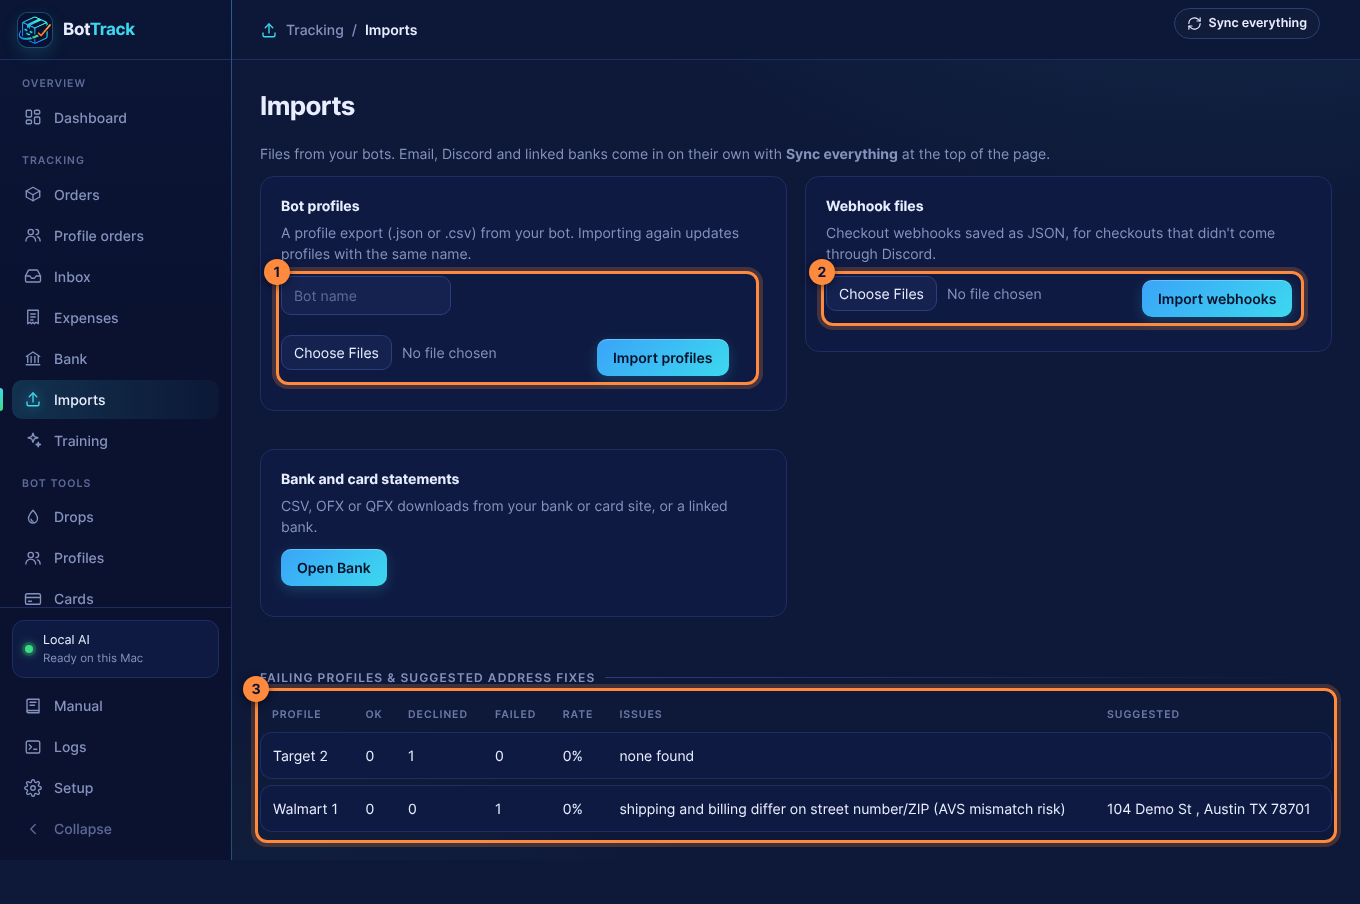
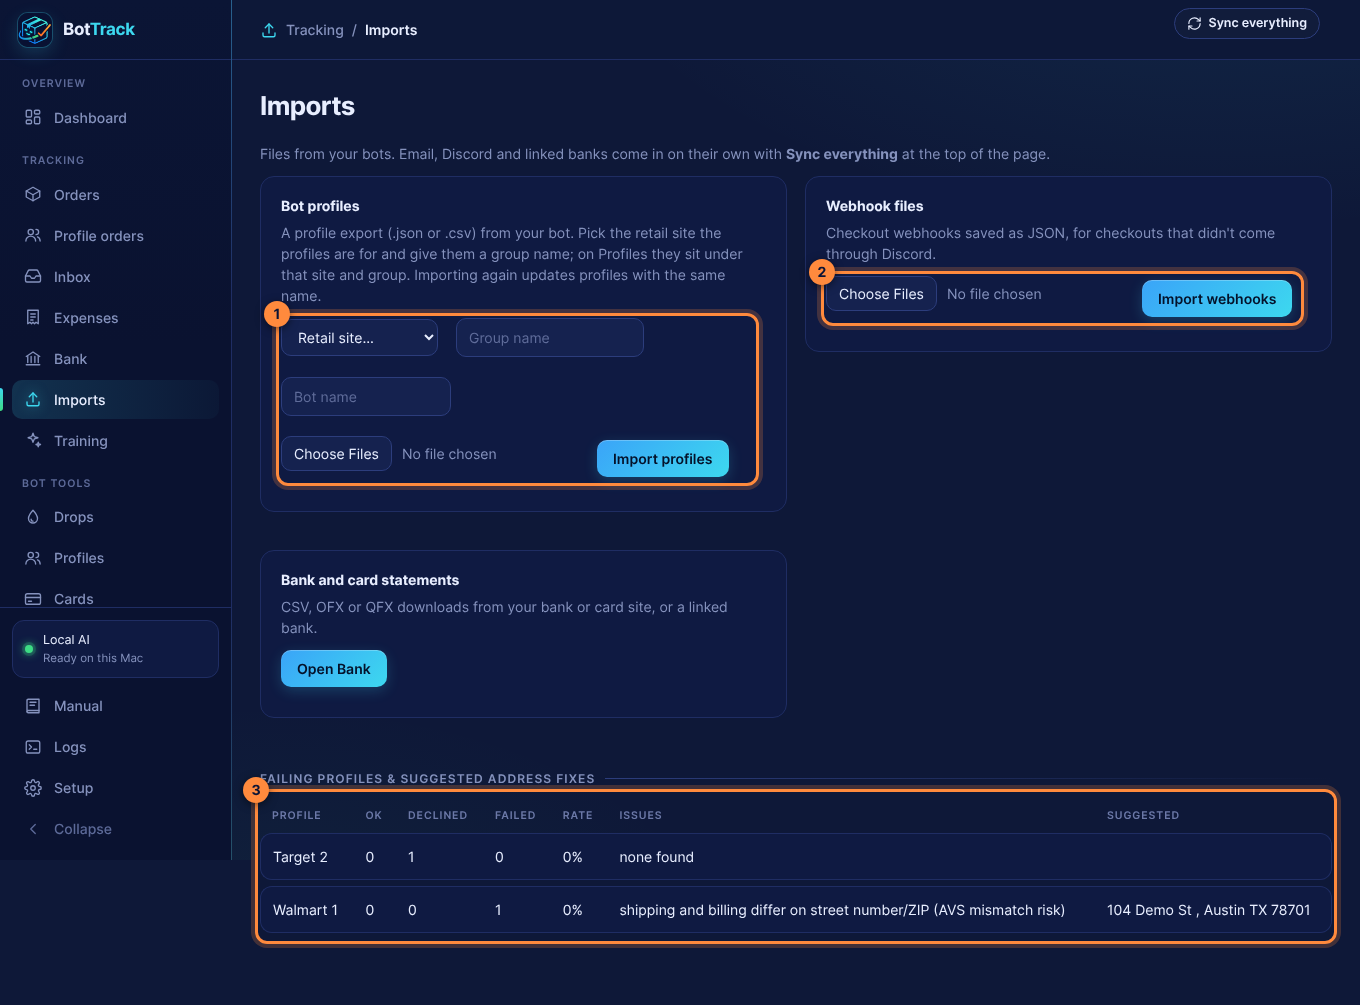
Profiles by retail site: pick site + group on import, Clear all profiles (#67)
Imports asks for the retail site (Amazon, Best Buy, Pokemon Center, Target,
Walmart, Topps, Shopify, Menards, Crunchyroll, Bandai, Riot, or Other) and a
group name; Profiles lists them site > group in the left column. Re-importing
updates a profile in place, keeping its linked card, site and group (it used
to replace the row). Orders are matched to the new profiles right after an
import. Clear all profiles asks to confirm with the count and keeps cards,
orders and hand-picked order matches.

Claude-Session: https://claude.ai/code/session_01LDuJdZzN9U43yUj6bC9CY3

diff --git a/jigstream/templates/profiles.html b/jigstream/templates/profiles.html
@@ -11,7 +11,9 @@
 .pcard .pick{position:absolute;left:18px;top:21px}
 .pcard h3{margin:0 0 4px;font-size:16px;color:var(--text);text-transform:none;letter-spacing:-.01em;font-weight:600;display:flex;align-items:center;gap:8px;padding-right:76px}
 .pcard .tag{font-size:11px;font-weight:600;background:var(--accent-soft);color:var(--accent);border-radius:6px;padding:2px 8px}
-.pcard .tag.grp{background:var(--green-soft);color:var(--green)}
+.pcard .tag.grp{background:var(--green-soft);color:var(--green)}.pcard .tag.site{background:rgba(255,138,61,.14);color:var(--orange)}
+.gside details.site summary{list-style:none;cursor:pointer}.gside details.site summary::-webkit-details-marker{display:none}
+.gside a.sub{padding-left:24px;font-size:12.5px}
 .pcard .who{color:var(--muted);font-size:13px;margin-bottom:10px;word-break:break-all}
 .pcard .lbl{color:var(--muted);font-size:11px;font-weight:600;letter-spacing:.06em;margin-top:10px}
 .pcard .same{color:var(--green)}.pcard .icons{position:absolute;top:12px;right:12px;display:flex;gap:2px}
@@ -41,11 +43,15 @@ textarea:focus{border-color:var(--accent);box-shadow:0 0 0 3px var(--accent-soft
 
 <div class="phead"><h2>Profiles <span class="muted" style="font-size:15px;font-weight:500">{{rows|length}}{% if group is not none %} in {{group or "no group"}}{% endif %}</span></h2>
 <button type="button" class="ghost" onclick="document.getElementById('exportdlg').showModal()">Export</button>
-<button type="button" onclick="openProfile()">+ Create profile</button></div>
+<button type="button" onclick="openProfile()">+ Create profile</button>
+{% if total %}<form method="post" action="/profiles/clear" style="margin:0" onsubmit="return confirm('Are you sure you want to clear all profiles? This deletes all {{total}} profiles and can\'t be undone. Your cards and orders are kept.')"><input type="hidden" name="confirm" value="{{total}}"><button class="danger">Clear all profiles</button></form>{% endif %}</div>
 
 <div class="playout">
 <aside class="gside">
-  <a href="/profiles" class="{{'on' if group is none}}">All profiles <span>{{total}}</span></a>
+  <a href="/profiles" class="{{'on' if group is none and site is none}}">All profiles <span>{{total}}</span></a>
+  {% if sites|length > 1 or (sites and "" not in sites) %}<div class="lbl">RETAIL SITES</div>
+  {% for s_name, gs in sites.items() %}<details class="site"{{" open" if site == s_name}}><summary><a href="/profiles?site={{s_name|urlencode}}" class="{{'on' if site == s_name and group is none}}">{{s_name or "No site"}} <span>{{gs|sum(attribute=1)}}</span></a></summary>
+  {% for g, n in gs %}<a class="sub {{'on' if site == s_name and group == g}}" href="/profiles?site={{s_name|urlencode}}&group={{g|urlencode}}">{{g or "No group"}} <span>{{n}}</span></a>{% endfor %}</details>{% endfor %}{% endif %}
   <div class="lbl">GROUPS</div>
   {% for g, n in groups %}<a href="/profiles?group={{g|urlencode}}" class="{{'on' if group == g}}">{{g}} <span>{{n}}</span></a>{% endfor %}
   {% if ungrouped %}<a href="/profiles?group=" class="{{'on' if group == ''}}"><i>No group</i> <span>{{ungrouped}}</span></a>{% endif %}
@@ -71,7 +77,7 @@ textarea:focus{border-color:var(--accent);box-shadow:0 0 0 3px var(--accent-soft
 </div>
 </form>
 
-{% if not rows %}<div class="panel muted">No profiles here yet. Create one, or import a bot's profile export from the Dashboard.</div>{% endif %}
+{% if not rows %}<div class="panel muted">No profiles here yet. Create one, or import a bot's profile export on <a href="/imports">Imports</a>.</div>{% endif %}
 <div class="pgrid">
 {% for p,issues,same in rows %}
 <div class="pcard{{' warn' if issues}}">
@@ -81,7 +87,7 @@ textarea:focus{border-color:var(--accent);box-shadow:0 0 0 3px var(--accent-soft
     <a class="edit" href="#" onclick="openProfile({{loop.index0}}); return false" title="Edit profile"><svg viewBox="0 0 24 24" fill="none" stroke="currentColor" stroke-width="2" stroke-linecap="round" stroke-linejoin="round"><path d="M12 20h9"/><path d="M16.5 3.5a2.1 2.1 0 0 1 3 3L7 19l-4 1 1-4z"/></svg></a>
     <form method="post" action="{{url_for('profile_delete', name=p.name)}}" onsubmit="return confirm('Delete {{p.name}}?')"><button class="del" title="Delete profile"><svg viewBox="0 0 24 24" fill="none" stroke="currentColor" stroke-width="2" stroke-linecap="round" stroke-linejoin="round"><path d="M3 6h18M8 6V4h8v2M19 6l-1 14H6L5 6M10 11v6M14 11v6"/></svg></button></form>
   </div>
-  <h3>{{p.name}}{% if p.group_name %} <span class="tag grp">{{p.group_name}}</span>{% endif %}{% if p.bot %} <span class="tag">{{p.bot}}</span>{% endif %}</h3>
+  <h3>{{p.name}}{% if p.site %} <span class="tag site">{{p.site}}</span>{% endif %}{% if p.group_name %} <span class="tag grp">{{p.group_name}}</span>{% endif %}{% if p.bot %} <span class="tag">{{p.bot}}</span>{% endif %}</h3>
   <div class="who">{{p.email or "no email"}}{% if p.phone %} · {{p.phone}}{% endif %}</div>
   <div class="lbl">BILLING</div>
   <div>{{p.bill_address1}}{% if p.bill_address2 %}, {{p.bill_address2}}{% endif %}</div>

diff --git a/jigstream/templates/imports.html b/jigstream/templates/imports.html
@@ -4,8 +4,12 @@
 <h2>Imports</h2>
 <p class="muted">Files from your bots. Email, Discord and linked banks come in on their own with <b>Sync everything</b> at the top of the page.</p>
 <div class="igrid">
-<div class="panel"><h4>Bot profiles</h4><p class="muted">A profile export (.json or .csv) from your bot. Importing again updates profiles with the same name.</p>
-<form method="post" action="/upload/profiles" enctype="multipart/form-data"><input name="bot" list="botnames" placeholder="Bot name" size="12" required><datalist id="botnames"><option>Valor</option><option>Stellar</option><option>Hayha</option><option>Polar</option><option>AYCD</option><option>Cybersole</option><option>Wrath</option></datalist><input type="file" name="files" multiple required><button>Import profiles</button></form></div>
+<div class="panel"><h4>Bot profiles</h4><p class="muted">A profile export (.json or .csv) from your bot. Pick the retail site the profiles are for and give them a group name; on Profiles they sit under that site and group. Importing again updates profiles with the same name.</p>
+<form method="post" action="/upload/profiles" enctype="multipart/form-data">
+<select name="site" required onchange="this.form.site_other.hidden = this.value !== 'other'; this.form.site_other.required = this.value === 'other'"><option value="">Retail site...</option>{% for s in retail_sites %}<option>{{s}}</option>{% endfor %}<option value="other">Other...</option></select>
+<input name="site_other" placeholder="Site name" size="14" hidden>
+<input name="group" placeholder="Group name" size="14" required>
+<input name="bot" list="botnames" placeholder="Bot name" size="12" required><datalist id="botnames"><option>Valor</option><option>Stellar</option><option>Hayha</option><option>Polar</option><option>AYCD</option><option>Cybersole</option><option>Wrath</option></datalist><input type="file" name="files" multiple required><button>Import profiles</button></form></div>
 <div class="panel"><h4>Webhook files</h4><p class="muted">Checkout webhooks saved as JSON, for checkouts that didn't come through Discord.</p>
 <form method="post" action="/upload/webhooks" enctype="multipart/form-data"><input type="file" name="files" multiple required><button>Import webhooks</button></form></div>
 <div class="panel"><h4>Bank and card statements</h4><p class="muted">CSV, OFX or QFX downloads from your bank or card site, or a linked bank.</p>

diff --git a/jigstream/templates/manual.html b/jigstream/templates/manual.html
@@ -134,7 +134,7 @@ of the page. On a narrow window the sidebar hides behind the <b>☰</b> menu but
 <div class="where">Sidebar → Tracking → <b>Imports</b></div>
 <p>Files from your bots. Email, Discord and linked banks come in by themselves, or right away with <span class="ui">Sync everything</span> at the top of every page.</p>
 {{ fig("imports", "The Imports page.", [
-  "Import profiles: type the bot's name, pick its profile export (.json or .csv), press Import profiles.",
+  "Import profiles: pick the retail site they're for (or Other... to type one), give them a group name, type the bot's name, pick its profile export (.json or .csv), press Import profiles. On Profiles they're listed under that site, then group.",
   "Import webhooks: pick the webhook files your bots exported (Valor, Stellar, Hayha, Polar). Not needed if Discord is connected.",
   "Failing profiles: each profile's success rate, the problems found in its address, and a cleaned-up address to try instead."]) }}
 <div class="tip">Under <i>Issues</i>, look for things like a ZIP code that's too short or billing and shipping that don't match. Those are the usual reasons a card is declined.</div>
@@ -397,6 +397,7 @@ one turns it <b>Cancelled</b>. Each drop date on By date also shows what the car
 <h2>Profiles</h2>
 <div class="where">Sidebar → Bot tools → <b>Profiles</b></div>
 <p>Your bot profiles as cards you can sort into groups, edit, copy, fill in bulk, and export back into any bot's file layout.</p>
+<p>Profiles imported for a retail site are listed under <b>Retail sites</b> in the left column: click a site to see its profiles, or open it to pick one of its groups. <span class="ui">Clear all profiles</span> at the top deletes every profile after asking if you're sure (your cards and orders are kept), so you can import them again by site.</p>
 {{ fig("profiles", "The Profiles page.", [
   "Groups: click a group to see only its profiles. Type a name and press Add to make a new one. With a group open you can rename or delete it (its profiles are kept).",
   "+ Create profile: opens the profile window.",

diff --git a/jigstream/app.py b/jigstream/app.py
@@ -164,7 +164,7 @@ def create_app(db_path=None):
     @app.get("/imports")
     def imports_page():
         report, unmatched = analysis.failure_report(con())
-        return render_template("imports.html", report=report, unmatched=unmatched)
+        return render_template("imports.html", report=report, unmatched=unmatched, retail_sites=profiles.RETAIL_SITES)
 
     @app.get("/checkouts")
     def checkouts():
@@ -342,18 +342,27 @@ def create_app(db_path=None):
     @app.get("/profiles")
     def profile_list():
         c = con()
-        group = request.args.get("group")
+        group, site = request.args.get("group"), request.args.get("site")
+        where, args = [], []
+        if site is not None:
+            where.append("COALESCE(p.site, '') = ?"), args.append(site)
+        if group is not None:
+            where.append("COALESCE(p.group_name, '') = ?"), args.append(group)
         q = ("SELECT p.*, c.brand AS linked_brand, c.last4 AS linked_last4, c.exp AS linked_exp, c.name AS linked_name"
              " FROM profiles p LEFT JOIN cards c ON c.id = p.card_id"
-             + (" WHERE COALESCE(p.group_name, '') = ?" if group is not None else "") + " ORDER BY p.name")
-        rows = [(p, analysis.profile_issues(p), export.same_address(p))
-                for p in c.execute(q, (group,) if group is not None else ())]
+             + (" WHERE " + " AND ".join(where) if where else "") + " ORDER BY p.name")
+        rows = [(p, analysis.profile_issues(p), export.same_address(p)) for p in c.execute(q, args)]
+        sites = {}
+        for s_, g_, n_ in c.execute("SELECT COALESCE(site, ''), COALESCE(group_name, ''), COUNT(*) FROM profiles"
+                                    " GROUP BY 1, 2 ORDER BY COALESCE(site, '') = '', lower(COALESCE(site, '')),"
+                                    " lower(COALESCE(group_name, ''))"):
+            sites.setdefault(s_, []).append((g_, n_))
         groups, ungrouped = profilebook.groups(c)
         profilematch.match_orders(Store(c).db)
         order_counts = dict(c.execute("SELECT profile_name, COUNT(*) FROM tracked_orders WHERE profile_name IS NOT NULL"
                                       " GROUP BY profile_name").fetchall())
         return render_template("profiles.html", order_counts=order_counts, email_groups=emailbook.groups(c)[0], rows=rows, bots=sorted(export.templates(c)), groups=groups,
-                               ungrouped=ungrouped, group=group, total=c.execute("SELECT COUNT(*) FROM profiles").fetchone()[0],
+                               ungrouped=ungrouped, group=group, site=site, sites=sites, total=c.execute("SELECT COUNT(*) FROM profiles").fetchone()[0],
                                fields=profilebook.DISTRIBUTE_FIELDS, addresses=profilebook.saved_addresses(c),
                                states=sorted(A.STATE_NAMES.items()), profiles_json=[dict(p) for p, _, _ in rows],
                                cards=wallet.cards(c))
@@ -407,6 +416,22 @@ def create_app(db_path=None):
                                               bool(request.form.get("billing")), bool(request.form.get("shipping")))
             flash(error or f"Updated {n} profile(s).")
         return _back_to_profiles()
+
+    @app.post("/profiles/clear")
+    def profiles_clear():
+        """Delete every profile (asked for with a confirmation on the page). Cards and orders are kept."""
+        c = con()
+        n = c.execute("SELECT COUNT(*) FROM profiles").fetchone()[0]
+        if request.form.get("confirm") != str(n):
+            flash("Nothing was deleted: the profile count changed. Try again.")
+            return _back_to_profiles()
+        c.execute("DELETE FROM profiles")
+        c.execute("UPDATE tracked_orders SET profile_name = NULL, profile_match = NULL, profile_candidates = NULL"
+                  " WHERE COALESCE(profile_manual, 0) = 0")  # hand picks come back when the profile is imported again
+        c.commit()
+        logger.info("cleared all %d profiles", n)
+        flash(f"Deleted all {n} profiles. Your cards and orders are kept; import profiles again on Imports.")
+        return redirect(url_for("profile_list"))
 
     @app.post("/profiles/groups")
     def profile_groups():
@@ -598,7 +623,10 @@ def create_app(db_path=None):
             if kind == "webhooks":
                 n = sum(parsers.ingest(c, f.read().decode("utf-8", "replace")) for f in request.files.getlist("files"))
             elif kind == "profiles":
-                n = profiles.ingest(c, text, request.form.get("bot", ""))
+                f = request.form
+                site = f.get("site_other", "").strip() if f.get("site") == "other" else f.get("site", "")
+                n = profiles.ingest(c, text, f.get("bot", ""), site, f.get("group", ""))
+                profilematch.match_orders(Store(c).db)  # tie existing orders to the new profiles now
             else:
                 return "unknown", 404
             flash(f"Imported {n} {kind} records")

diff --git a/jigstream/profiles.py b/jigstream/profiles.py
@@ -196,20 +196,29 @@ def parse_profiles(text, bot=""):
     return out
 
 
-def ingest(con, text, bot=""):
+# Retail sites offered when importing profiles; any other site can be typed in.
+RETAIL_SITES = ["Amazon", "Best Buy", "Pokemon Center", "Target", "Walmart", "Topps", "Shopify", "Menards",
+                "Crunchyroll", "Bandai", "Riot"]
+FIELDS = ["bot", "first_name", "last_name", "phone", "email", "ship_address1", "ship_address2", "ship_city", "ship_state",
+          "ship_zip", "ship_country", "bill_address1", "bill_address2", "bill_city", "bill_state", "bill_zip",
+          "bill_country", "card_last4", "raw", "card_brand", "card_exp", "fmt"]
+
+
+def ingest(con, text, bot="", site="", group=""):
+    """Import a bot's profile export. A profile already saved under the same name is updated in place, so its
+    linked card stays; the retail site and group are set when given."""
+    site, group = (site or "").strip(), (group or "").strip()
+    if group:
+        con.execute("INSERT OR IGNORE INTO profile_groups VALUES (?)", (group,))
+    extra = [("site", site)] * bool(site) + [("group_name", group)] * bool(group)
+    cols = ["name", *FIELDS, *(k for k, _ in extra)]
     n = 0
     for p in parse_profiles(text, bot):
         if not p["name"]:
             continue
-        con.execute(
-            """INSERT OR REPLACE INTO profiles (name, bot, first_name, last_name, phone, email,
-             ship_address1, ship_address2, ship_city, ship_state, ship_zip, ship_country,
-             bill_address1, bill_address2, bill_city, bill_state, bill_zip, bill_country,
-             card_last4, raw, card_brand, card_exp, fmt) VALUES
-            (:name,:bot,:first_name,:last_name,:phone,:email,
-             :ship_address1,:ship_address2,:ship_city,:ship_state,:ship_zip,:ship_country,
-             :bill_address1,:bill_address2,:bill_city,:bill_state,:bill_zip,:bill_country,
-             :card_last4,:raw,:card_brand,:card_exp,:fmt)""", p)
+        values = {**p, **dict(extra)}
+        con.execute(f"INSERT INTO profiles ({', '.join(cols)}) VALUES ({', '.join(':' + c for c in cols)})"
+                    f" ON CONFLICT(name) DO UPDATE SET {', '.join(f'{c} = excluded.{c}' for c in cols[1:])}", values)
         n += 1
     con.commit()
     return n

diff --git a/tests/test_core.py b/tests/test_core.py
@@ -114,3 +114,30 @@ def test_model_http_500_is_a_failed_email_not_an_engine_that_is_off(monkeypatch)
     except llm.LLMError as e:
         assert "runner has unexpectedly stopped" in str(e) and "Could not reach" not in str(e)
     assert len(calls) == 2  # one retry
+
+
+def test_profiles_import_under_a_retail_site_and_group_and_clear(tmp_path):
+    import io
+    path = str(tmp_path / "t.db")
+    c = db.connect(path)
+    c.execute("INSERT INTO cards (id, last4) VALUES (7, '4242')") if c.execute(
+        "SELECT name FROM sqlite_master WHERE name='cards'").fetchone() else None
+    profiles.ingest(c, json.dumps(PROFILES), "Valor", "Target", "Target Main")
+    c.execute("UPDATE profiles SET card_id = 7 WHERE name = 'prof1'")
+    profiles.ingest(c, json.dumps(PROFILES[:1]), "Valor")  # importing again keeps the site, group and card
+    p = dict(c.execute("SELECT site, group_name, card_id FROM profiles WHERE name = 'prof1'").fetchone())
+    assert p == {"site": "Target", "group_name": "Target Main", "card_id": 7}
+
+    client = create_app(path).test_client()
+    data = {"site": "other", "site_other": "Riot Store", "group": "Riot 1", "bot": "Valor",
+            "files": (io.BytesIO(json.dumps([{"name": "prof3", "shipping": {"address1": "5 Elm St", "zip": "78701"}}]).encode()), "p.json")}
+    client.post("/upload/profiles", data=data, content_type="multipart/form-data")
+    assert tuple(c.execute("SELECT site, group_name FROM profiles WHERE name = 'prof3'").fetchone()) == ("Riot Store", "Riot 1")
+    page = client.get("/profiles?site=Target").get_data(as_text=True)
+    assert "RETAIL SITES" in page and "Target Main" in page and "prof1" in page and "prof3" not in page.split('class="pgrid"')[1]
+    assert "Are you sure you want to clear all profiles?" in page
+    client.post("/profiles/clear", data={"confirm": "2"})  # the count on the page was out of date
+    assert c.execute("SELECT COUNT(*) FROM profiles").fetchone()[0] == 3
+    client.post("/profiles/clear", data={"confirm": "3"})
+    assert c.execute("SELECT COUNT(*) FROM profiles").fetchone()[0] == 0
+    assert 'name="site"' in client.get("/imports").get_data(as_text=True)

diff --git a/jigstream/db.py b/jigstream/db.py
@@ -57,7 +57,7 @@ CREATE TABLE IF NOT EXISTS saved_addresses (
 # Columns added after the first release; created on older databases at startup.
 MIGRATIONS = [("profiles", "card_brand", "TEXT"), ("profiles", "card_exp", "TEXT"), ("profiles", "fmt", "TEXT"),
               ("profiles", "group_name", "TEXT"), ("profiles", "card_holder", "TEXT"),
-              ("profiles", "card_id", "INTEGER")]
+              ("profiles", "card_id", "INTEGER"), ("profiles", "site", "TEXT")]
 
 
 _ready = set()  # (database file, part) pairs already set up by this process
